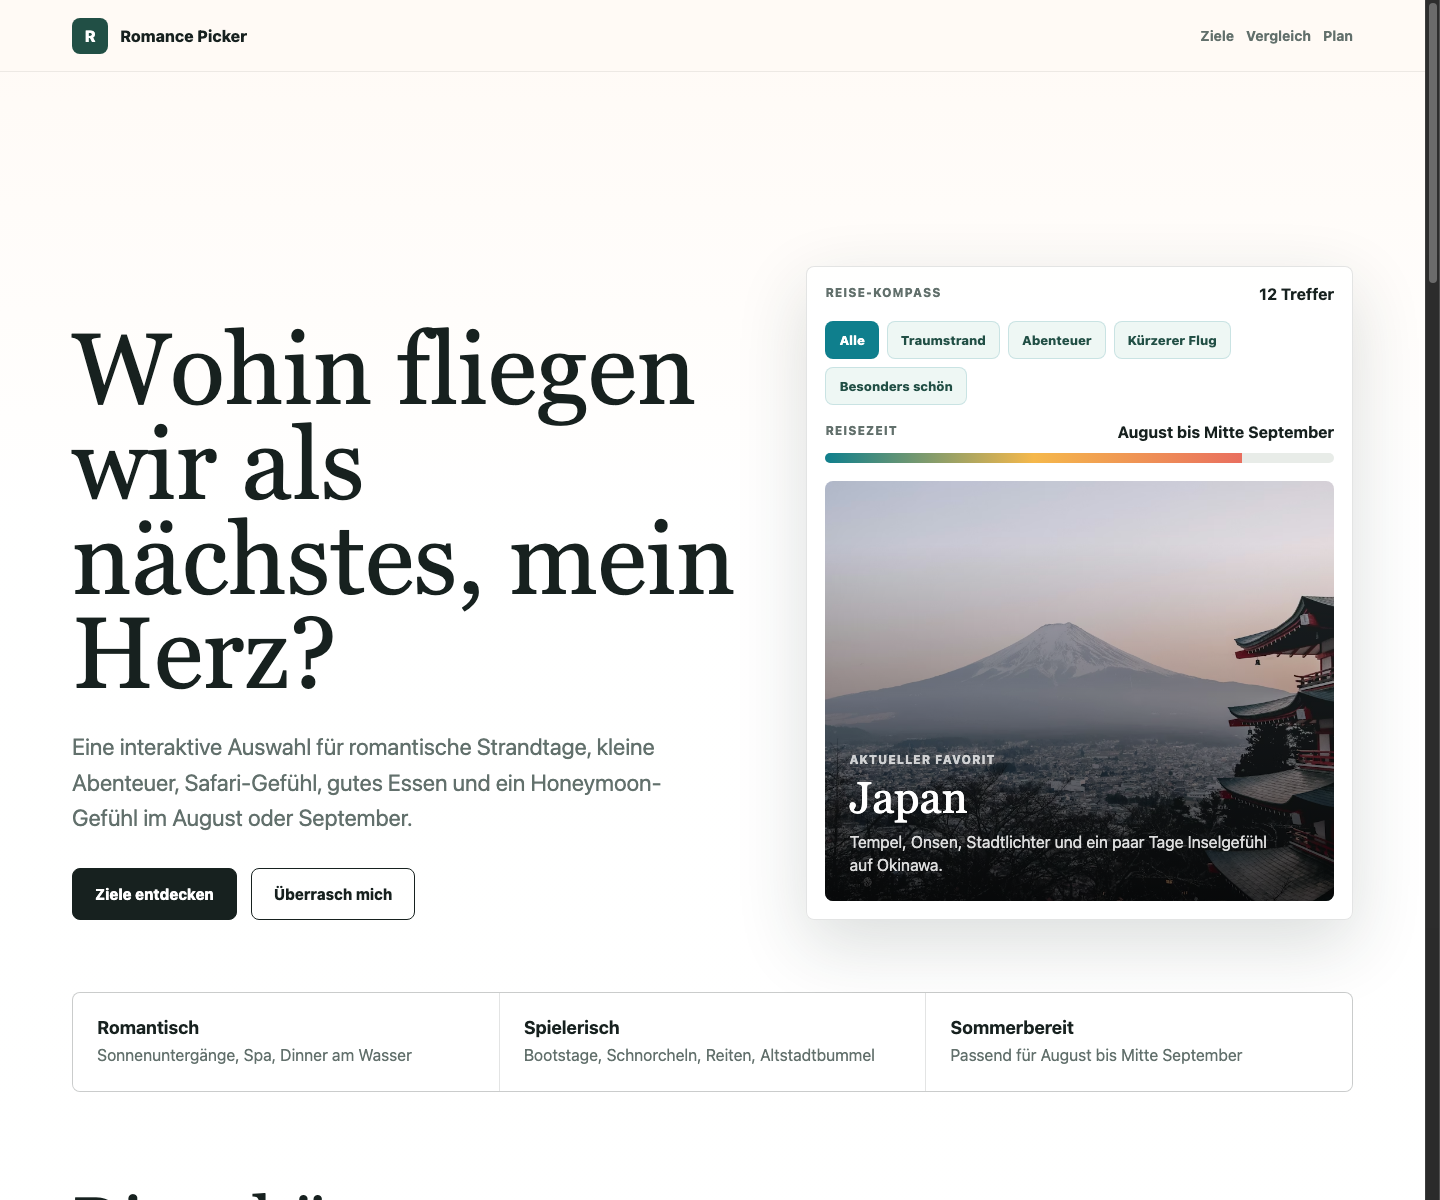
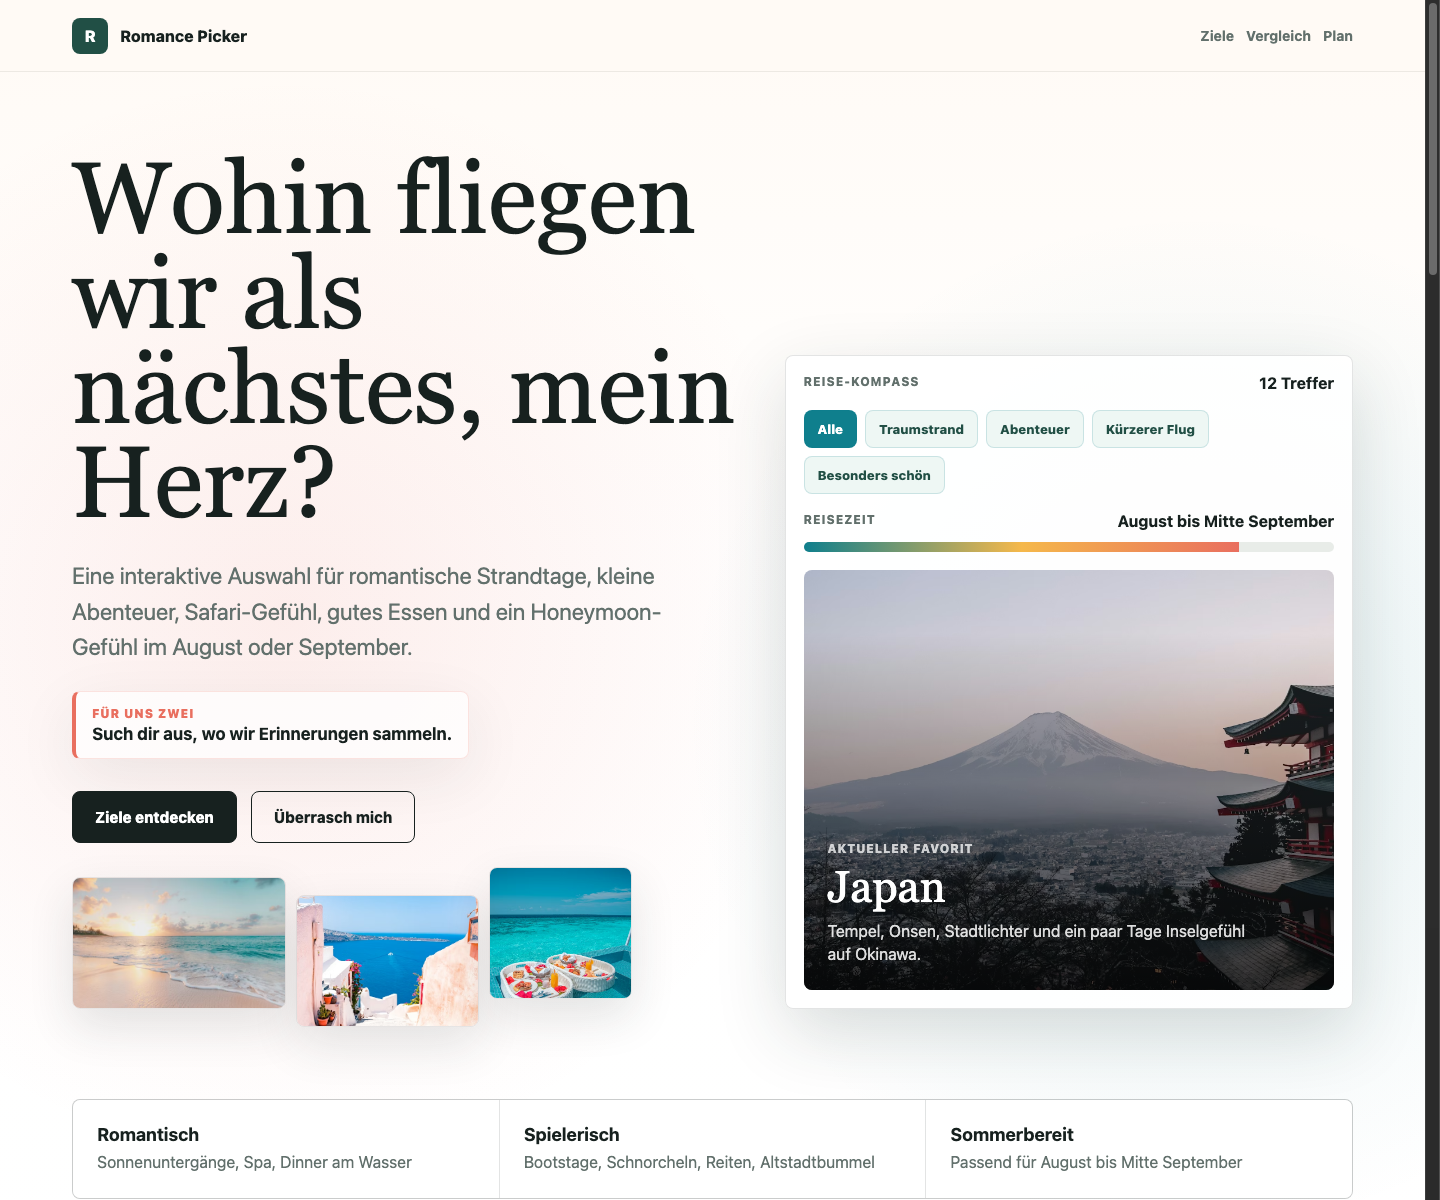
Polish destination picker visuals and fix images

diff --git a/styles.css b/styles.css
@@ -2,6 +2,7 @@
   --ink: #17211f;
   --muted: #62706c;
   --paper: #fffaf5;
+  --blush: #fff1ec;
   --white: #ffffff;
   --line: rgba(23, 33, 31, 0.12);
   --coral: #e96f5f;
@@ -24,7 +25,9 @@ body {
   font-family: Inter, ui-sans-serif, system-ui, -apple-system, BlinkMacSystemFont, "Segoe UI", sans-serif;
   color: var(--ink);
   background:
-    linear-gradient(180deg, rgba(255, 250, 245, 0.94), rgba(255, 255, 255, 0.98) 32rem),
+    radial-gradient(circle at 20% 12%, rgba(233, 111, 95, 0.12), transparent 34rem),
+    radial-gradient(circle at 84% 14%, rgba(15, 127, 141, 0.11), transparent 32rem),
+    linear-gradient(180deg, rgba(255, 250, 245, 0.96), rgba(255, 255, 255, 0.98) 34rem),
     var(--paper);
   overflow-x: hidden;
 }
@@ -47,7 +50,7 @@ button {
   justify-content: space-between;
   min-height: 72px;
   padding: 0 5vw;
-  background: rgba(255, 250, 245, 0.82);
+  background: rgba(255, 250, 245, 0.9);
   border-bottom: 1px solid rgba(23, 33, 31, 0.08);
   backdrop-filter: blur(18px);
 }
@@ -81,11 +84,11 @@ button {
 
 .hero {
   display: grid;
-  grid-template-columns: minmax(0, 0.95fr) minmax(360px, 0.75fr);
+  grid-template-columns: minmax(0, 0.92fr) minmax(390px, 0.78fr);
   gap: 42px;
   align-items: end;
   min-height: min(920px, calc(100vh - 72px));
-  padding: 7vw 5vw 5vw;
+  padding: 5.5vw 5vw 5vw;
 }
 
 .hero > * {
@@ -110,11 +113,60 @@ button {
   line-height: 1.55;
 }
 
+.love-note {
+  display: inline-grid;
+  gap: 3px;
+  margin-top: 26px;
+  padding: 14px 16px;
+  background: rgba(255, 255, 255, 0.72);
+  border: 1px solid rgba(233, 111, 95, 0.18);
+  border-left: 4px solid var(--coral);
+  border-radius: 8px;
+  box-shadow: 0 18px 60px rgba(32, 48, 46, 0.08);
+}
+
+.love-note span {
+  color: var(--coral);
+  font-size: 12px;
+  font-weight: 900;
+  letter-spacing: 0.08em;
+  text-transform: uppercase;
+}
+
+.love-note strong {
+  font-size: 17px;
+}
+
 .hero-actions {
   display: flex;
   flex-wrap: wrap;
   gap: 14px;
   margin-top: 32px;
+}
+
+.memory-strip {
+  display: grid;
+  grid-template-columns: 1.08fr 0.92fr 0.72fr;
+  gap: 10px;
+  max-width: 560px;
+  margin-top: 34px;
+}
+
+.memory-strip img {
+  width: 100%;
+  height: 132px;
+  object-fit: cover;
+  border: 1px solid rgba(23, 33, 31, 0.1);
+  border-radius: 8px;
+  box-shadow: 0 18px 46px rgba(32, 48, 46, 0.12);
+}
+
+.memory-strip img:nth-child(2) {
+  transform: translateY(18px);
+}
+
+.memory-strip img:nth-child(3) {
+  transform: translateY(-10px);
 }
 
 .primary-action,
@@ -146,7 +198,7 @@ button {
   padding: 18px;
   max-width: 100%;
   overflow: hidden;
-  background: rgba(255, 255, 255, 0.88);
+  background: rgba(255, 255, 255, 0.92);
   border: 1px solid var(--line);
   border-radius: 8px;
   box-shadow: var(--shadow);
@@ -217,6 +269,18 @@ button {
   isolation: isolate;
 }
 
+.spotlight.image-failed,
+.card-image.image-failed {
+  background:
+    linear-gradient(135deg, rgba(15, 127, 141, 0.35), rgba(233, 111, 95, 0.3)),
+    #214f45;
+}
+
+.spotlight.image-failed img,
+.card-image.image-failed img {
+  opacity: 0;
+}
+
 .spotlight img {
   position: absolute;
   inset: 0;
@@ -264,7 +328,7 @@ button {
   display: grid;
   grid-template-columns: repeat(3, 1fr);
   gap: 1px;
-  margin: 0 5vw;
+  margin: 18px 5vw 0;
   overflow: hidden;
   background: var(--line);
   border: 1px solid var(--line);
@@ -320,7 +384,7 @@ button {
 .destination-grid {
   display: grid;
   grid-template-columns: repeat(3, minmax(0, 1fr));
-  gap: 18px;
+  gap: 22px;
   padding: 0 5vw 80px;
 }
 
@@ -330,8 +394,16 @@ button {
   grid-template-rows: 270px 1fr;
   overflow: hidden;
   background: white;
-  border: 1px solid var(--line);
+  border: 1px solid rgba(23, 33, 31, 0.1);
   border-radius: 8px;
+  box-shadow: 0 16px 46px rgba(32, 48, 46, 0.08);
+  transition: transform 220ms ease, box-shadow 220ms ease, border-color 220ms ease;
+}
+
+.destination-card:hover {
+  border-color: rgba(15, 127, 141, 0.26);
+  box-shadow: 0 24px 70px rgba(32, 48, 46, 0.15);
+  transform: translateY(-4px);
 }
 
 .destination-card.is-hidden {
@@ -341,6 +413,15 @@ button {
 .card-image {
   position: relative;
   overflow: hidden;
+}
+
+.card-image::after {
+  position: absolute;
+  inset: auto 0 0;
+  height: 45%;
+  content: "";
+  background: linear-gradient(180deg, transparent, rgba(0, 0, 0, 0.34));
+  pointer-events: none;
 }
 
 .card-image img {
@@ -368,6 +449,7 @@ button {
   border-radius: 8px;
   cursor: pointer;
   font-size: 22px;
+  box-shadow: 0 12px 34px rgba(0, 0, 0, 0.16);
 }
 
 .heart.is-liked {
@@ -378,7 +460,7 @@ button {
 .card-body {
   display: grid;
   gap: 14px;
-  padding: 20px;
+  padding: 22px;
 }
 
 .card-title {
@@ -400,7 +482,7 @@ button {
   padding: 7px 9px;
   text-align: center;
   color: white;
-  background: var(--green);
+  background: linear-gradient(135deg, var(--green), var(--sea));
   border-radius: 8px;
   font-size: 13px;
   font-weight: 900;
@@ -422,7 +504,7 @@ button {
 .card-meta span,
 .activity-tags span {
   padding: 8px 10px;
-  background: #f4f4ef;
+  background: #f5f1ea;
   border-radius: 8px;
   letter-spacing: 0;
   text-transform: none;
@@ -430,7 +512,7 @@ button {
 
 .activity-tags span {
   color: var(--green);
-  background: #eef7f4;
+  background: #eef8f5;
   font-size: 13px;
   font-weight: 800;
 }
@@ -439,7 +521,9 @@ button {
 .planner {
   margin: 0 5vw 80px;
   padding: 42px;
-  background: #f3f8f6;
+  background:
+    linear-gradient(135deg, rgba(255, 255, 255, 0.72), rgba(255, 241, 236, 0.62)),
+    #f3f8f6;
   border: 1px solid rgba(15, 127, 141, 0.14);
   border-radius: 8px;
 }
@@ -483,7 +567,9 @@ button {
   grid-template-columns: 0.65fr 1fr;
   gap: 44px;
   align-items: start;
-  background: var(--ink);
+  background:
+    linear-gradient(135deg, rgba(23, 33, 31, 0.96), rgba(33, 79, 69, 0.94)),
+    var(--ink);
   color: white;
 }
 
@@ -541,6 +627,10 @@ footer {
   .compare-list {
     grid-template-columns: repeat(2, minmax(0, 1fr));
   }
+
+  .memory-strip {
+    max-width: 100%;
+  }
 }
 
 @media (max-width: 700px) {
@@ -567,6 +657,21 @@ footer {
     min-height: auto;
     padding-top: 44px;
     overflow: hidden;
+  }
+
+  .memory-strip {
+    grid-template-columns: repeat(3, minmax(0, 1fr));
+    gap: 8px;
+    margin-top: 26px;
+  }
+
+  .memory-strip img {
+    height: 92px;
+  }
+
+  .memory-strip img:nth-child(2),
+  .memory-strip img:nth-child(3) {
+    transform: none;
   }
 
   .hero-copy h1 {

diff --git a/script.js b/script.js
@@ -24,7 +24,7 @@ const destinations = [
   {
     name: "Punta Cana",
     region: "Dominikanische Republik",
-    image: "https://images.unsplash.com/photo-1584555613483-3f8f5f49d0a2?auto=format&fit=crop&w=1200&q=82",
+    image: "./assets/destinations/punta-cana.jpg",
     season: "August bis Mitte September: tropisch, warm, flexibel planen",
     flight: "lang",
     score: "8.8",
@@ -68,7 +68,7 @@ const destinations = [
   {
     name: "Albanische Riviera",
     region: "Ksamil, Himare, Saranda",
-    image: "https://images.unsplash.com/photo-1590130665626-05e2353f9124?auto=format&fit=crop&w=1200&q=82",
+    image: "./assets/destinations/albania-riviera.jpg",
     season: "Ende August bis Mitte September: stark",
     flight: "kurz",
     score: "9.0",
@@ -112,7 +112,7 @@ const destinations = [
   {
     name: "Ägypten Red Sea",
     region: "Marsa Alam, El Gouna",
-    image: "https://images.unsplash.com/photo-1539650116574-75c0c6d73f6e?auto=format&fit=crop&w=1200&q=82",
+    image: "./assets/destinations/egypt-red-sea.jpg",
     season: "September: warmes Meer, sehr sonnig",
     flight: "kurz",
     score: "8.5",
@@ -123,7 +123,7 @@ const destinations = [
   {
     name: "Marokko",
     region: "Marrakesch, Essaouira, Agafay",
-    image: "https://images.unsplash.com/photo-1539020140153-e8c237112e53?auto=format&fit=crop&w=1200&q=82",
+    image: "./assets/destinations/morocco.jpg",
     season: "September: besser als Hochsommer",
     flight: "kurz",
     score: "8.8",
@@ -152,7 +152,7 @@ function renderCards() {
     article.className = `destination-card${isVisible ? "" : " is-hidden"}`;
     article.innerHTML = `
       <div class="card-image">
-        <img src="${destination.image}" alt="${destination.name} romantisches Reiseziel" loading="${index < 3 ? "eager" : "lazy"}">
+        <img src="${destination.image}" alt="${destination.name} romantisches Reiseziel" loading="${index < 3 ? "eager" : "lazy"}" onerror="this.closest('.card-image').classList.add('image-failed')">
         <button class="heart${liked.has(destination.name) ? " is-liked" : ""}" type="button" aria-label="${destination.name} merken" data-like="${destination.name}">♥</button>
       </div>
       <div class="card-body">
@@ -180,7 +180,7 @@ function renderCards() {
 
 function updateSpotlight(destination) {
   spotlight.innerHTML = `
-    <img alt="" src="${destination.image}">
+    <img alt="" src="${destination.image}" onerror="this.closest('.spotlight').classList.add('image-failed')">
     <div>
       <span>Aktueller Favorit</span>
       <strong>${destination.name}</strong>

diff --git a/index.html b/index.html
@@ -28,9 +28,18 @@
             Eine interaktive Auswahl für romantische Strandtage, kleine Abenteuer,
             Safari-Gefühl, gutes Essen und ein Honeymoon-Gefühl im August oder September.
           </p>
+          <div class="love-note" aria-label="Persönliche Einladung">
+            <span>Für uns zwei</span>
+            <strong>Such dir aus, wo wir Erinnerungen sammeln.</strong>
+          </div>
           <div class="hero-actions">
             <a class="primary-action" href="#ziele">Ziele entdecken</a>
             <button class="ghost-action" id="surpriseMe" type="button">Überrasch mich</button>
+          </div>
+          <div class="memory-strip" aria-label="Reisemomente">
+            <img alt="Romantischer Strand" src="https://images.unsplash.com/photo-1507525428034-b723cf961d3e?auto=format&fit=crop&w=520&q=82" />
+            <img alt="Griechischer Sonnenuntergang" src="https://images.unsplash.com/photo-1533105079780-92b9be482077?auto=format&fit=crop&w=520&q=82" />
+            <img alt="Zanzibar Strand" src="https://images.unsplash.com/photo-1586861635167-e5223aadc9fe?auto=format&fit=crop&w=520&q=82" />
           </div>
         </div>
 
